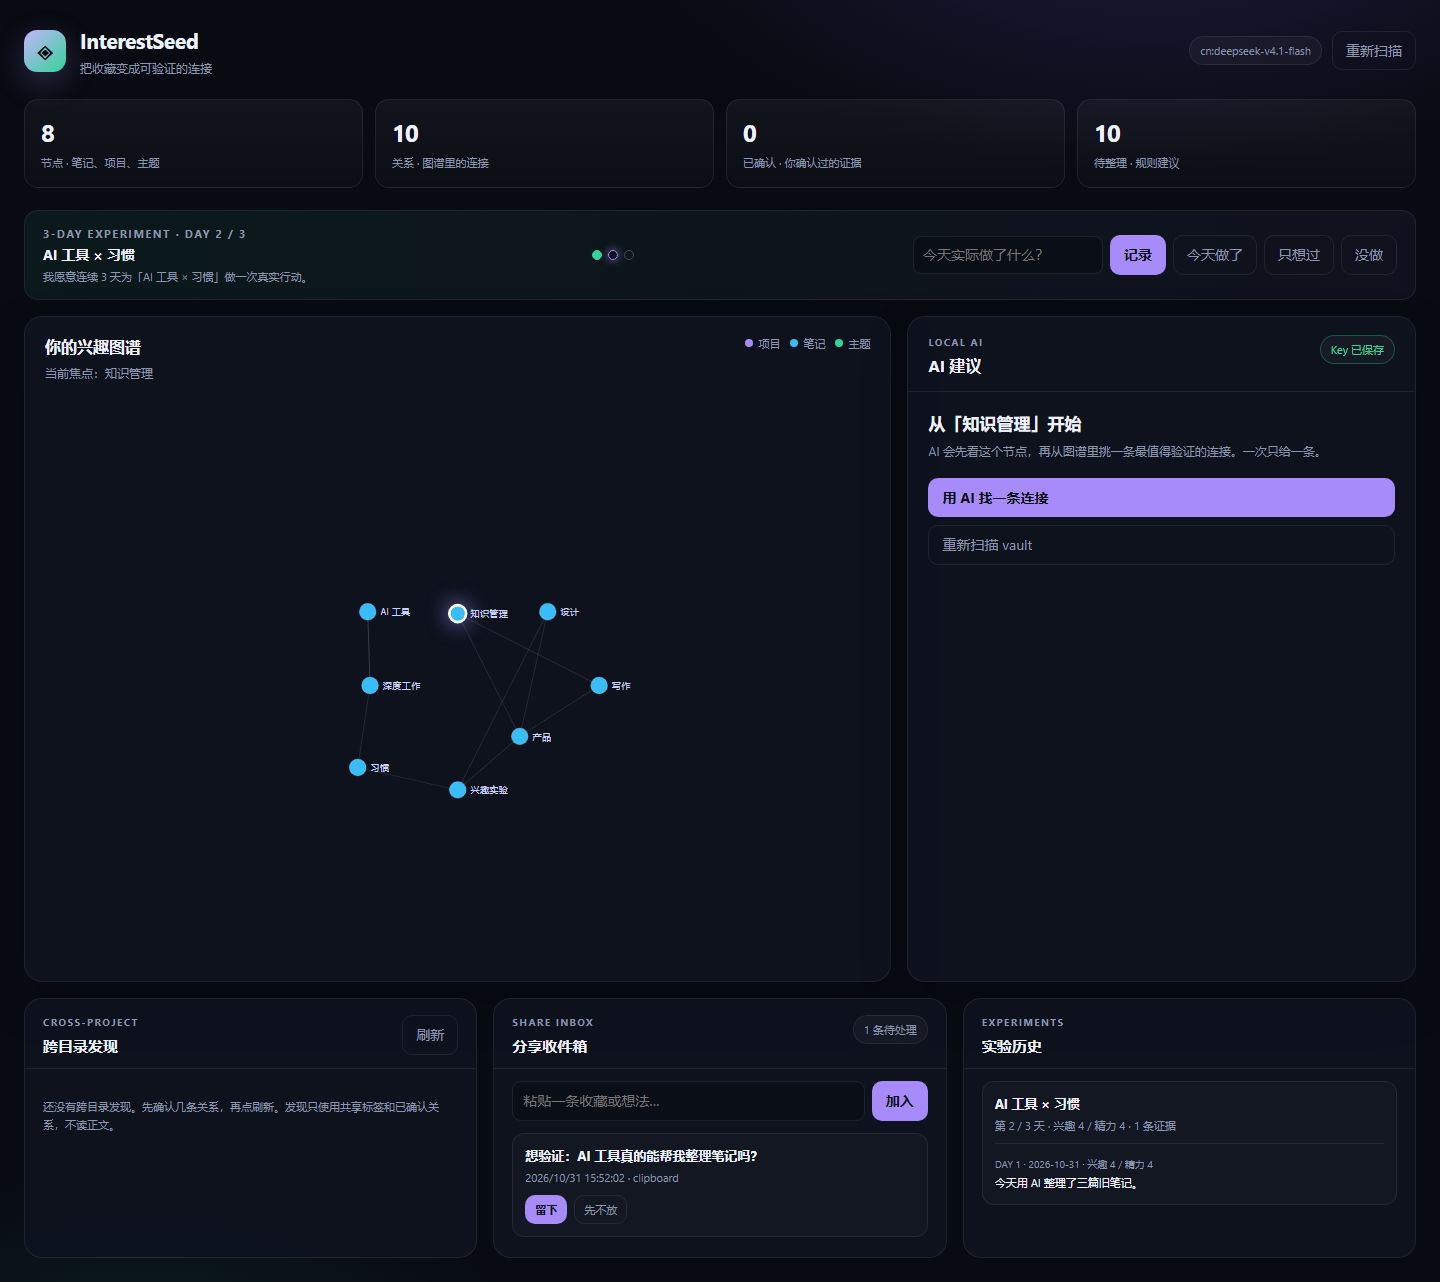
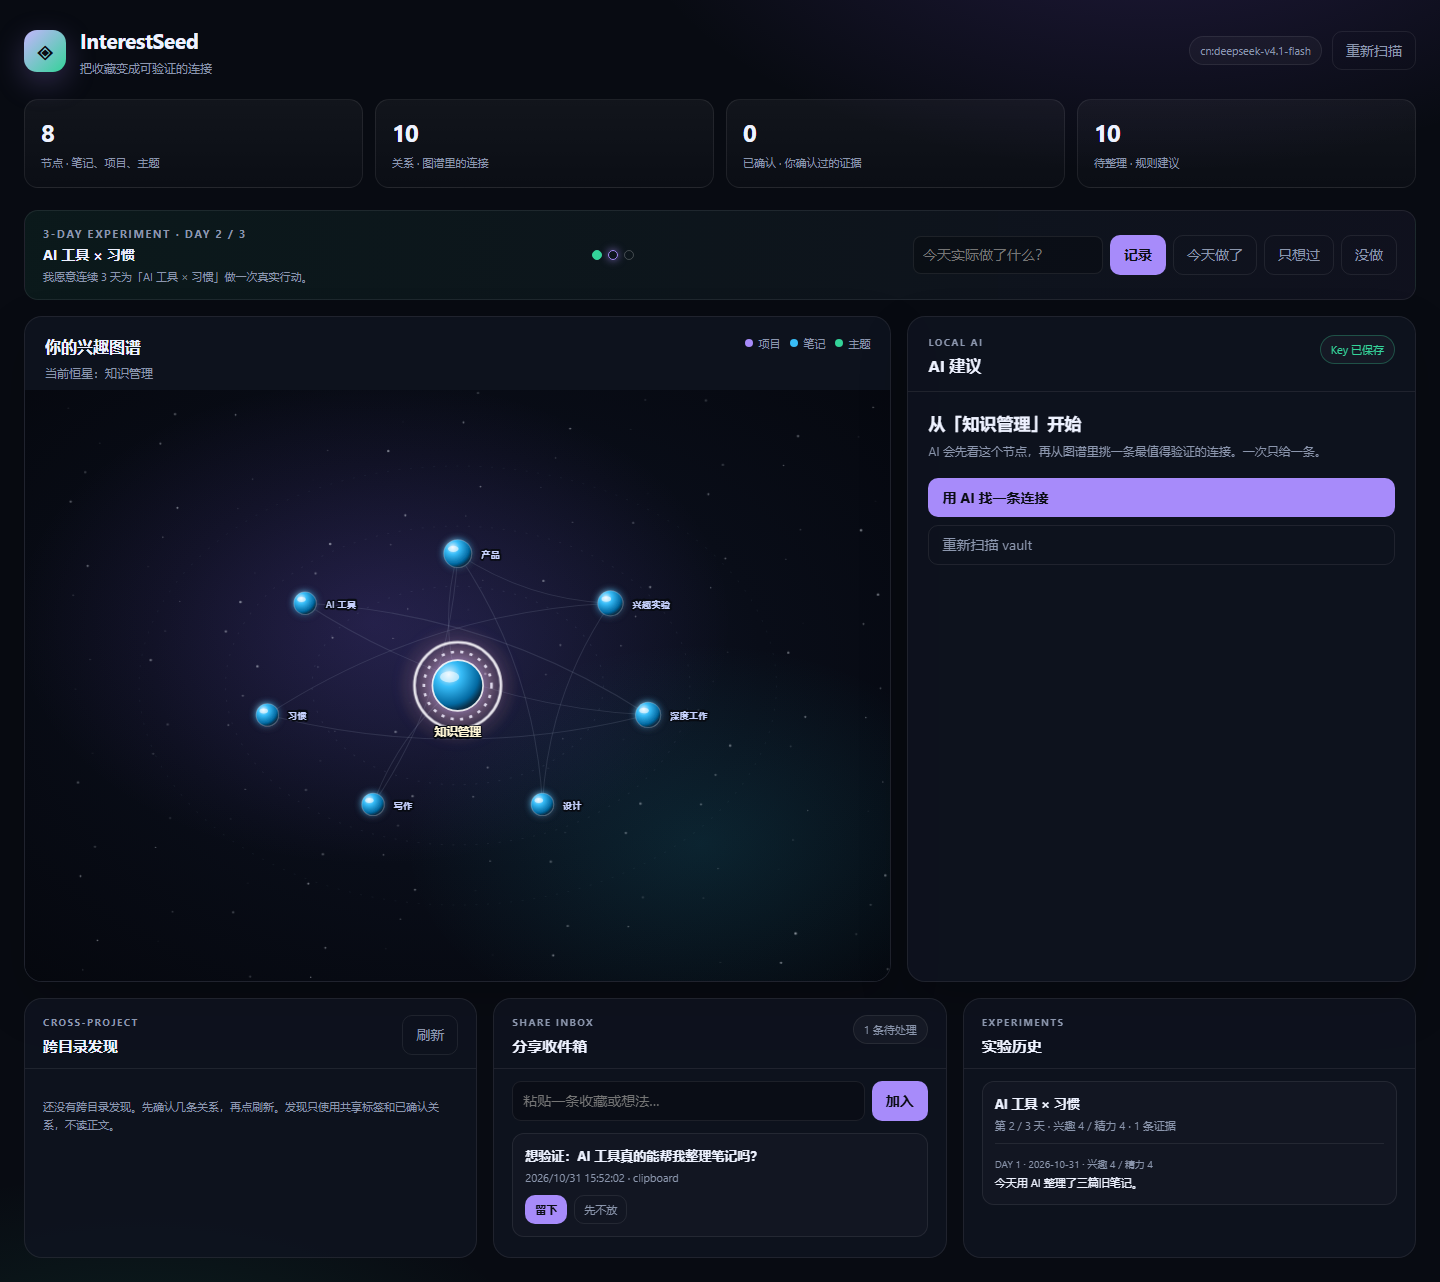
Turn the standalone graph into a planet system

diff --git a/standalone/web/app.js b/standalone/web/app.js
@@ -318,45 +318,176 @@ async function resolveInboxItem(id, status) {
   }
 }
 
+function svgEl(name, attrs = {}) {
+  const element = document.createElementNS(svgNS, name);
+  for (const [key, value] of Object.entries(attrs)) {
+    if (value !== undefined && value !== null) element.setAttribute(key, String(value));
+  }
+  return element;
+}
+
 function renderGraph() {
   const graph = state.data.graph;
-  const svg = $('#graph');
+  const svg = document.getElementById('graph');
   svg.innerHTML = '';
   const width = 820;
   const height = 560;
   const cx = width / 2;
   const cy = height / 2;
   const nodes = graph.nodes;
-  const radius = Math.min(220, 90 + nodes.length * 5.5);
+  if (!nodes.length) {
+    svg.appendChild(svgEl('text', {
+      x: cx, y: cy, fill: '#8b96ad', 'text-anchor': 'middle', 'font-size': 13,
+      text: '扫描一个 Markdown vault，星系会出现在这里。',
+    }));
+    return;
+  }
+
+  const degree = new Map(nodes.map((node) => [node.id, 0]));
+  for (const edge of graph.edges) {
+    if (edge.status === 'rejected') continue;
+    degree.set(edge.source, (degree.get(edge.source) ?? 0) + 1);
+    degree.set(edge.target, (degree.get(edge.target) ?? 0) + 1);
+  }
+  const selected = nodes.find((node) => node.id === state.selectedId)
+    ?? [...nodes].sort((a, b) => (degree.get(b.id) ?? 0) - (degree.get(a.id) ?? 0))[0];
+  const others = nodes
+    .filter((node) => node.id !== selected.id)
+    .sort((a, b) => (degree.get(b.id) ?? 0) - (degree.get(a.id) ?? 0));
+
   const positions = new Map();
-  nodes.forEach((node, index) => {
-    const angle = (index / Math.max(1, nodes.length)) * Math.PI * 2 - Math.PI / 2;
-    const ring = radius * (index % 3 === 0 ? 0.62 : index % 3 === 1 ? 0.9 : 1);
-    positions.set(node.id, {
-      x: cx + Math.cos(angle) * ring,
-      y: cy + Math.sin(angle) * ring * 0.82,
-    });
-  });
+  positions.set(selected.id, { x: cx, y: cy });
+  const ringCounts = [Math.min(7, others.length), Math.max(0, others.length - 7)];
+  let cursor = 0;
+  for (let ring = 0; ring < ringCounts.length; ring += 1) {
+    const count = ringCounts[ring];
+    if (!count) continue;
+    const rx = 185 + ring * 95;
+    const ry = 125 + ring * 68;
+    for (let index = 0; index < count; index += 1) {
+      const node = others[cursor];
+      cursor += 1;
+      if (!node) break;
+      const angle = -Math.PI / 2 + (index / count) * Math.PI * 2 + ring * 0.34;
+      positions.set(node.id, {
+        x: cx + Math.cos(angle) * rx,
+        y: cy + Math.sin(angle) * ry,
+      });
+    }
+  }
+
+  const defs = svgEl('defs');
+  defs.innerHTML = `
+    <radialGradient id="space-bg" cx="50%" cy="46%" r="78%">
+      <stop offset="0%" stop-color="#11172b"/>
+      <stop offset="45%" stop-color="#090d18"/>
+      <stop offset="100%" stop-color="#05070d"/>
+    </radialGradient>
+    <radialGradient id="nebula-violet" cx="50%" cy="50%" r="50%">
+      <stop offset="0%" stop-color="#8b5cf6" stop-opacity=".18"/>
+      <stop offset="100%" stop-color="#8b5cf6" stop-opacity="0"/>
+    </radialGradient>
+    <radialGradient id="nebula-cyan" cx="50%" cy="50%" r="50%">
+      <stop offset="0%" stop-color="#22d3ee" stop-opacity=".12"/>
+      <stop offset="100%" stop-color="#22d3ee" stop-opacity="0"/>
+    </radialGradient>
+    <radialGradient id="star-halo" cx="50%" cy="50%" r="50%">
+      <stop offset="0%" stop-color="#fef3c7" stop-opacity=".55"/>
+      <stop offset="42%" stop-color="#fbbf24" stop-opacity=".18"/>
+      <stop offset="100%" stop-color="#f59e0b" stop-opacity="0"/>
+    </radialGradient>
+    <radialGradient id="planet-document" cx="32%" cy="28%" r="72%">
+      <stop offset="0%" stop-color="#e0f2fe"/>
+      <stop offset="34%" stop-color="#38bdf8"/>
+      <stop offset="82%" stop-color="#0369a1"/>
+      <stop offset="100%" stop-color="#082f49"/>
+    </radialGradient>
+    <radialGradient id="planet-project" cx="32%" cy="28%" r="72%">
+      <stop offset="0%" stop-color="#f5f3ff"/>
+      <stop offset="34%" stop-color="#a78bfa"/>
+      <stop offset="82%" stop-color="#6d28d9"/>
+      <stop offset="100%" stop-color="#2e1065"/>
+    </radialGradient>
+    <radialGradient id="planet-topic" cx="32%" cy="28%" r="72%">
+      <stop offset="0%" stop-color="#ecfdf5"/>
+      <stop offset="34%" stop-color="#34d399"/>
+      <stop offset="82%" stop-color="#047857"/>
+      <stop offset="100%" stop-color="#022c22"/>
+    </radialGradient>
+    <filter id="soft-glow" x="-80%" y="-80%" width="260%" height="260%">
+      <feGaussianBlur stdDeviation="4" result="blur"/>
+      <feMerge><feMergeNode in="blur"/><feMergeNode in="SourceGraphic"/></feMerge>
+    </filter>
+    <filter id="node-glow" x="-120%" y="-120%" width="340%" height="340%">
+      <feGaussianBlur stdDeviation="3.5" result="blur"/>
+      <feMerge><feMergeNode in="blur"/><feMergeNode in="SourceGraphic"/></feMerge>
+    </filter>
+  `;
+  svg.appendChild(defs);
+  svg.appendChild(svgEl('rect', { x: 0, y: 0, width, height, fill: 'url(#space-bg)' }));
+  svg.appendChild(svgEl('ellipse', {
+    cx: cx - 80, cy: cy - 60, rx: 340, ry: 230, fill: 'url(#nebula-violet)',
+  }));
+  svg.appendChild(svgEl('ellipse', {
+    cx: cx + 230, cy: cy + 150, rx: 280, ry: 190, fill: 'url(#nebula-cyan)',
+  }));
+
+  for (let index = 0; index < 150; index += 1) {
+    const x = (index * 149.3 + 41) % width;
+    const y = (index * 211.7 + 17) % height;
+    const radius = 0.35 + ((index * 17) % 10) / 10;
+    svg.appendChild(svgEl('circle', {
+      cx: x, cy: y, r: radius, fill: '#e2e8f0',
+      opacity: 0.18 + ((index * 13) % 40) / 100,
+      class: 'star',
+      style: `animation-delay: ${(index * 173) % 5000}ms`,
+    }));
+  }
+
+  for (let ring = 0; ring < 3; ring += 1) {
+    svg.appendChild(svgEl('ellipse', {
+      cx, cy,
+      rx: 138 + ring * 82,
+      ry: 94 + ring * 57,
+      fill: 'none',
+      class: 'orbit',
+      opacity: 0.9 - ring * 0.18,
+    }));
+  }
+  svg.appendChild(svgEl('circle', {
+    cx, cy, r: 58, fill: 'url(#star-halo)', opacity: 0.9,
+  }));
 
   for (const edge of graph.edges) {
     const from = positions.get(edge.source);
     const to = positions.get(edge.target);
     if (!from || !to) continue;
-    const line = document.createElementNS(svgNS, 'line');
-    line.setAttribute('x1', from.x);
-    line.setAttribute('y1', from.y);
-    line.setAttribute('x2', to.x);
-    line.setAttribute('y2', to.y);
-    line.setAttribute('class', `edge ${edge.status === 'confirmed' ? 'confirmed' : ''}`);
-    svg.appendChild(line);
+    const mx = (from.x + to.x) / 2;
+    const my = (from.y + to.y) / 2;
+    const dx = to.x - from.x;
+    const dy = to.y - from.y;
+    const distance = Math.max(1, Math.hypot(dx, dy));
+    const bend = Math.min(46, distance * 0.14);
+    const controlX = mx - (dy / distance) * bend;
+    const controlY = my + (dx / distance) * bend;
+    svg.appendChild(svgEl('path', {
+      d: `M ${from.x} ${from.y} Q ${controlX} ${controlY} ${to.x} ${to.y}`,
+      class: `edge ${edge.status === 'confirmed' ? 'confirmed' : ''}`,
+      'fill': 'none',
+    }));
   }
 
-  const colors = { project: '#a78bfa', topic: '#34d399', document: '#38bdf8' };
+  const colors = { project: 'planet-project', topic: 'planet-topic', document: 'planet-document' };
   for (const node of nodes) {
     const pos = positions.get(node.id);
-    const group = document.createElementNS(svgNS, 'g');
-    group.setAttribute('class', `node ${state.selectedId === node.id ? 'selected' : ''}`);
-    group.setAttribute('transform', `translate(${pos.x}, ${pos.y})`);
+    if (!pos) continue;
+    const isSelected = node.id === selected.id;
+    const r = isSelected ? 24 : Math.min(16, 8 + (degree.get(node.id) ?? 0) * 1.3);
+    const group = svgEl('g', {
+      class: `node ${isSelected ? 'selected' : ''}`,
+      transform: `translate(${pos.x}, ${pos.y})`,
+      tabindex: 0,
+    });
     group.addEventListener('click', () => {
       state.selectedId = node.id;
       state.suggestions = [];
@@ -364,22 +495,39 @@ function renderGraph() {
       state.lastConnected = null;
       render();
     });
-    const circle = document.createElementNS(svgNS, 'circle');
-    circle.setAttribute('r', node.type === 'project' ? 11 : 8);
-    circle.setAttribute('fill', colors[node.type] ?? '#94a3b8');
-    group.appendChild(circle);
-    const title = document.createElementNS(svgNS, 'title');
-    title.textContent = node.title;
-    group.appendChild(title);
-    const label = document.createElementNS(svgNS, 'text');
-    label.setAttribute('x', 12);
-    label.setAttribute('y', 3);
-    label.textContent = node.title.length > 27 ? `${node.title.slice(0, 27)}…` : node.title;
+    group.appendChild(svgEl('title', {})).textContent = node.title;
+    if (isSelected) {
+      group.appendChild(svgEl('circle', { r: r + 17, fill: 'url(#star-halo)', class: 'sun-halo' }));
+      group.appendChild(svgEl('circle', { r: r + 8, fill: 'none', class: 'selected-ring' }));
+    }
+    group.appendChild(svgEl('circle', {
+      r, fill: `url(#${colors[node.type] ?? 'planet-document'})`,
+      class: 'planet', filter: 'url(#node-glow)',
+    }));
+    group.appendChild(svgEl('ellipse', {
+      cx: -r * 0.32, cy: -r * 0.34, rx: r * 0.38, ry: r * 0.22,
+      fill: '#ffffff', opacity: 0.55, class: 'planet-shine',
+    }));
+    if (node.type === 'project') {
+      group.appendChild(svgEl('ellipse', {
+        rx: r * 1.9, ry: r * 0.55, fill: 'none',
+        stroke: '#c4b5fd', 'stroke-width': 1.2, opacity: 0.55,
+        transform: 'rotate(-20)', class: 'planet-ring',
+      }));
+    }
+    const label = svgEl('text', {
+      x: isSelected ? 0 : r + 9,
+      y: isSelected ? r + 24 : 4,
+      'text-anchor': isSelected ? 'middle' : 'start',
+      class: 'planet-label',
+    });
+    label.textContent = node.title.length > 26 ? `${node.title.slice(0, 26)}…` : node.title;
     group.appendChild(label);
     svg.appendChild(group);
   }
-  $('#graph-subtitle').textContent = state.selectedId
-    ? `当前焦点：${nodeTitle(state.selectedId)}`
+
+  document.getElementById('graph-subtitle').textContent = state.selectedId
+    ? `当前恒星：${nodeTitle(state.selectedId)}`
     : '选择一个节点，让 AI 找一条最值得验证的连接。';
 }
 

diff --git a/standalone/web/styles.css b/standalone/web/styles.css
@@ -189,3 +189,26 @@ button, input { font: inherit; }
 .history-card .log span { color: var(--muted); font-size: 10px; }
 .history-card .log p { color: var(--text); margin-top: 2px; }
 @media (max-width: 1100px) { .lower-grid { grid-template-columns: 1fr; } }
+/* Cosmic graph */
+#graph { background: radial-gradient(ellipse at 50% 45%, #10162a 0%, #080b12 60%, #05070d 100%); }
+.star { animation: twinkle 4.5s ease-in-out infinite; }
+@keyframes twinkle { 0%, 100% { opacity: .2; } 50% { opacity: .85; } }
+.orbit { stroke: rgba(148, 163, 184, .13); stroke-width: 1; stroke-dasharray: 2 9; }
+.edge { stroke: rgba(148, 163, 184, .18); stroke-width: 1; }
+.edge.confirmed { stroke: rgba(167, 139, 250, .5); stroke-width: 1.5; filter: drop-shadow(0 0 4px rgba(167,139,250,.35)); }
+.node { cursor: pointer; outline: none; }
+.node .planet { stroke: rgba(255,255,255,.22); stroke-width: 1; transition: transform .2s ease; transform-origin: center; }
+.node:hover .planet { transform: scale(1.08); }
+.node.selected .planet { stroke: rgba(255,255,255,.85); stroke-width: 1.6; }
+.node .sun-halo { stroke: none; animation: sun-breathe 3.8s ease-in-out infinite; }
+.node .selected-ring { stroke: rgba(253, 230, 138, .8); stroke-width: 1.2; stroke-dasharray: 3 6; animation: ring-pulse 3.2s ease-in-out infinite; }
+.node .planet-shine { pointer-events: none; }
+.node .planet-ring { pointer-events: none; }
+.planet-label {
+  fill: #dbe4ff; font-size: 9.5px; font-weight: 600;
+  paint-order: stroke; stroke: #080b12; stroke-width: 3px; stroke-linejoin: round;
+  pointer-events: none;
+}
+.node.selected .planet-label { fill: #fff7d6; font-size: 11px; }
+@keyframes sun-breathe { 0%, 100% { opacity: .55; } 50% { opacity: 1; } }
+@keyframes ring-pulse { 0%, 100% { opacity: .35; } 50% { opacity: .9; } }

diff --git a/review/standalone-4.0.0.md b/review/standalone-4.0.0.md
@@ -31,7 +31,7 @@ reason: AI 工具可用于知识采集、自动整理、检索与综合，增强
 
 ```text
 http://127.0.0.1:4173
-graph renders 8 nodes
+cosmic graph renders 8 planets / 150 stars
 AI suggestion: 1 / 5
 connect → 200
 undo → 200
@@ -67,7 +67,7 @@ second log on the same day → rejected: 今天已经记录过了，明天再来
 
 ```text
 release/interestseed-standalone-v4.0.0.zip
-sha256: 1f19bcb8aa51ca39805422ea1a71ab9c495f47e740e84faa5e09b3381db99fdb
+sha256: 58cce9f974b46fd34a1a77d16b2e171d4892642db76384e1e8c3d47f59890b7f
 packaged cli.js status → 8 nodes / 10 edges
 packaged web / → 200
 ```
